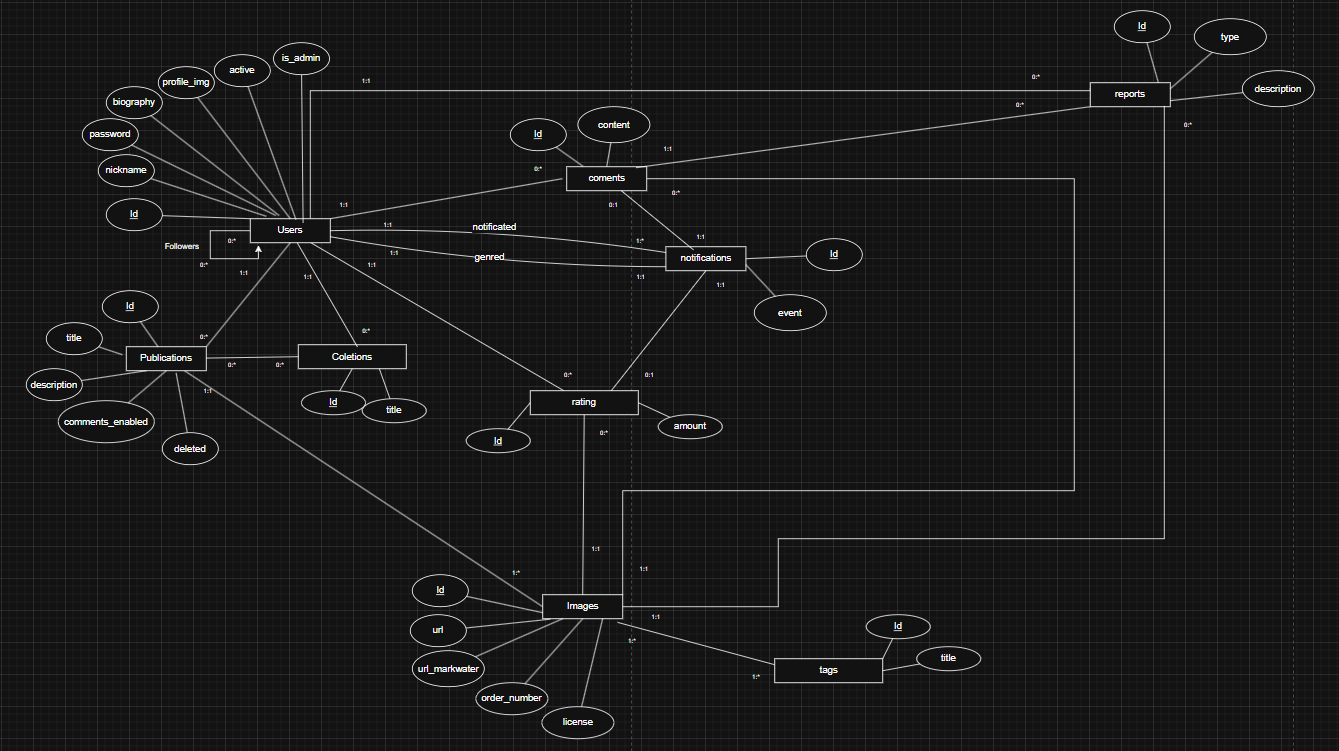
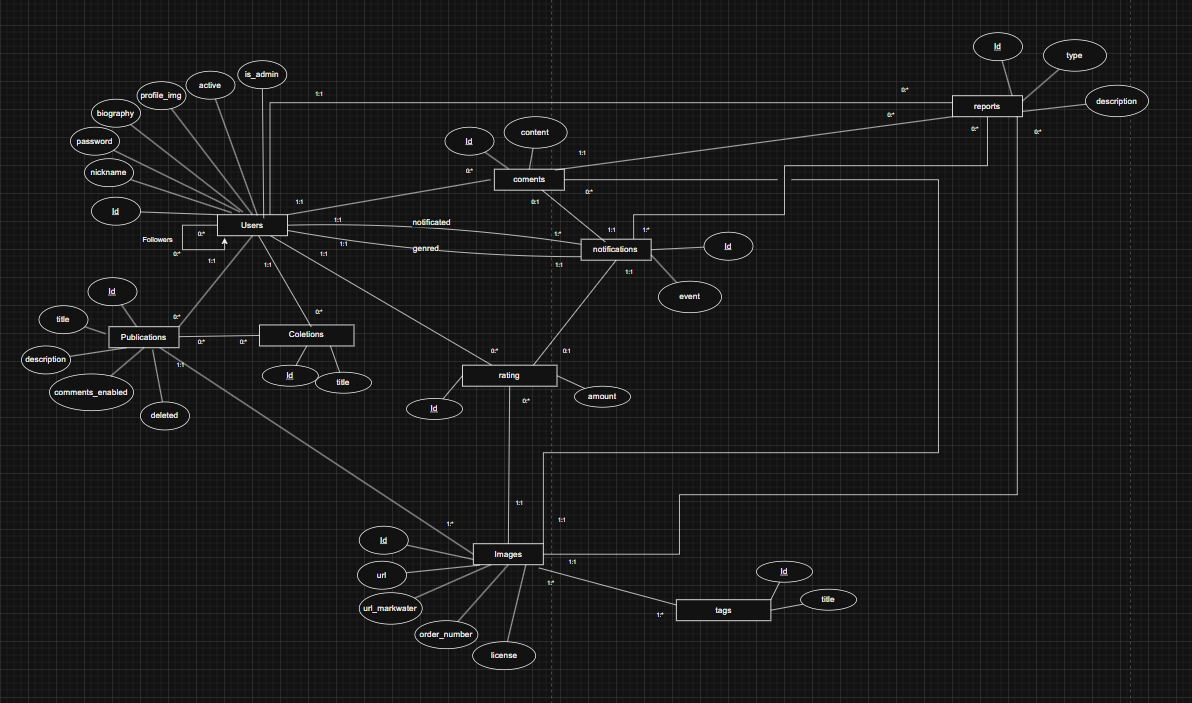
fix: agregando relacion reports-> notifications DER /readme.md

diff --git a/README.md b/README.md
@@ -15,7 +15,7 @@
   - Usuarios anonimos podran ver contenido sin copyright.
 - Gestion de contenido.
   - Podran postear publicaciones con titulo, descripcion (opcional), varias imagenes y varias etiquetas.
-  - Las publicaciones se podran denunciar con motivo y descripcion. Si la publicacion tiene una denuncia no se podra editar.
+  - Las imagenes se podran denunciar con motivo y descripcion. Si la publicacion tiene una denuncia no se podra editar.
     Si la publicacion tiene 3 denuncias pasara a una lista negra que vera el admin , donde puede desetimarlas o dar de baja la publicacion.
     Si el usuario tiene 3 publicaciones dadas de baja se inactivara su cuenta.
   - Se podran comentar las imagenes de la publicacion. Esta seccion se podra desactivar por el propietario , pero se vera el historial antes de que lo hiciera.